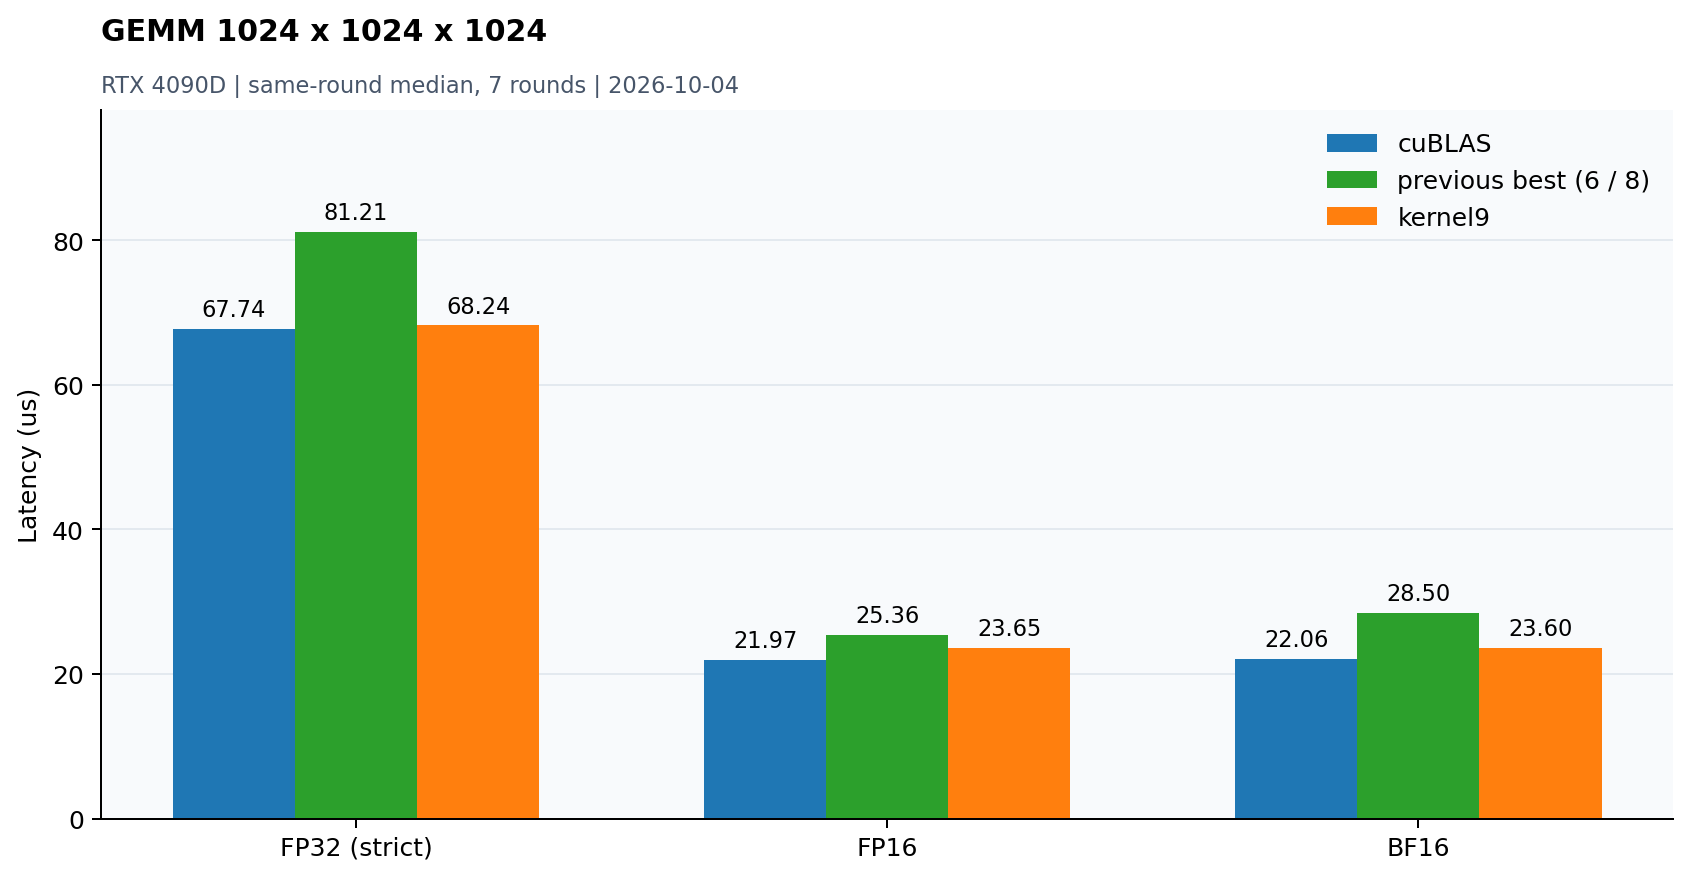
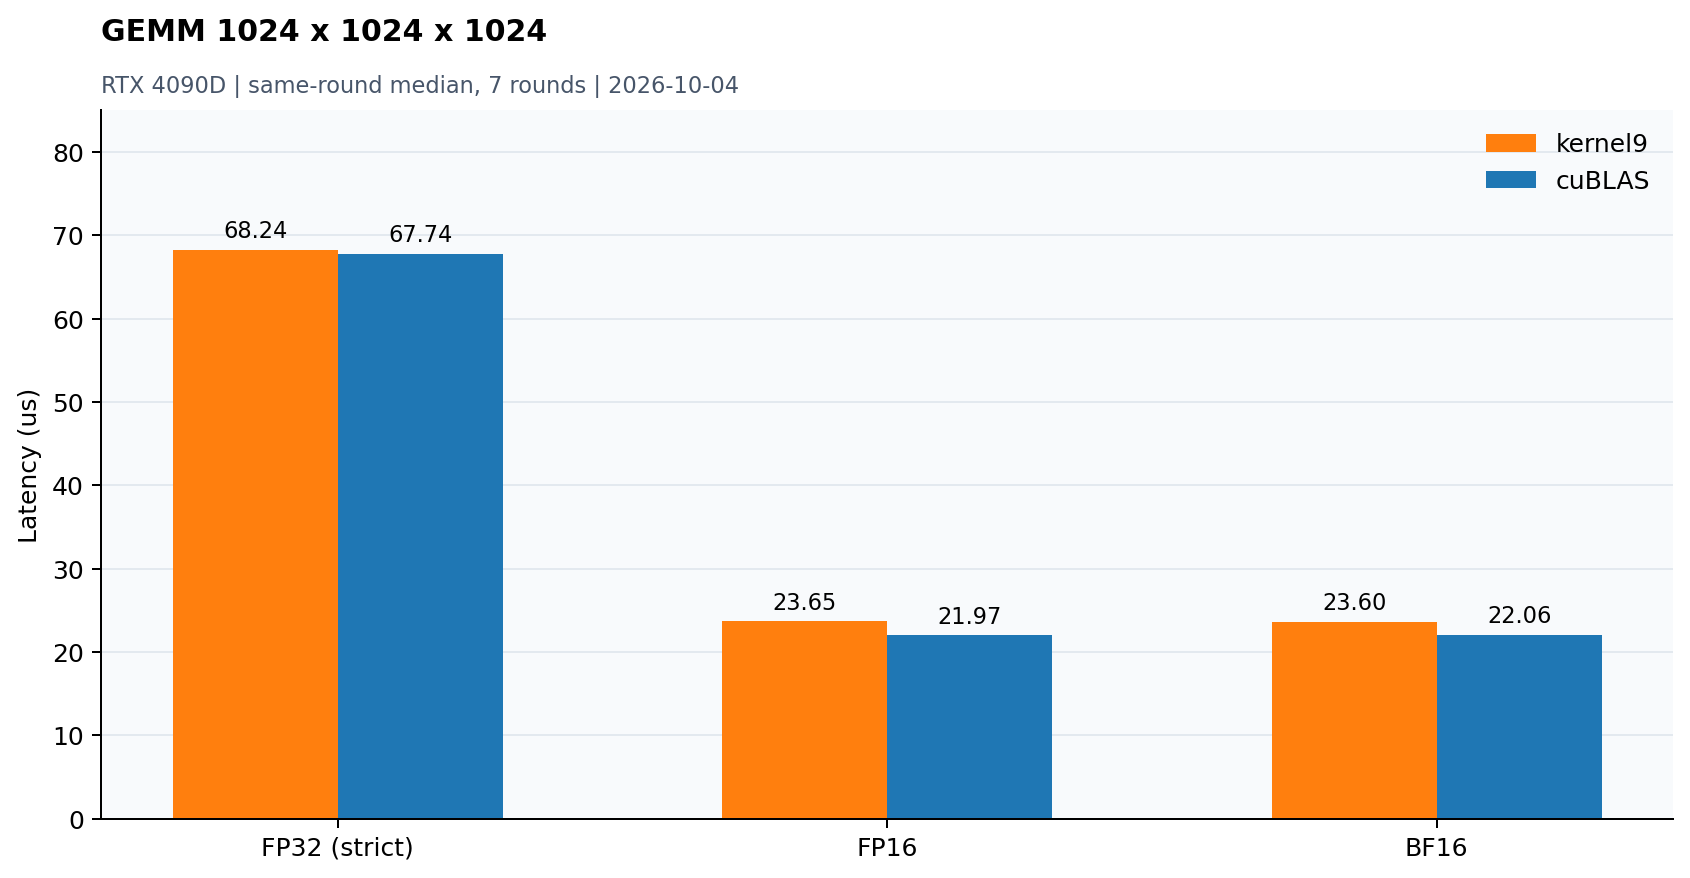
仅展示最终 GEMM 内核与基准的性能对比

diff --git a/analysis/grouped_gemm.md b/analysis/grouped_gemm.md
@@ -4,37 +4,35 @@
 
 ![Grouped GEMM latency](../figures/grouped_gemm.png)
 
-## 实现与调参
+## 最优版kernel7
 
-保留native、逐专家cuBLAS loop、shared/register SIMT、可选CUTLASS和通用kernel6。kernel7精确匹配上述形状与FP16才走固定路径，其他输入明确打印fallback并调用kernel6。
+kernel7精确匹配上述形状与FP16才走固定路径，其他输入明确打印fallback并调用通用实现。
 
-最终CTA32×128×32、warp32×32、128threads、512个有效输出tile；16B向量cp.async、三层shared流水线、紧凑线性地址XOR、B的ldmatrix.x4.trans。停止提交时wait_group0排空，barrier保证其他线程看到已完成拷贝。任务按专家/N tile/M tile排列，以增加B缓存复用机会。寄存器双缓冲在此布局更慢，最终保留单组操作数寄存器。
+CTA32×128×32、warp32×32、128threads、512个有效输出tile；16B向量cp.async、三层shared流水线、紧凑线性地址XOR、B的ldmatrix.x4.trans。停止提交时wait_group0排空，barrier保证其他线程看到已完成拷贝。任务按专家/N tile/M tile排列，以增加B缓存复用机会。操作数使用单组寄存器。
 
-三轮共408个自研扫描项，含跨轮重复；同输入初轮另扫描228个可运行开源候选。CUTLASS DeviceOnly/HostPrecompute均扫描CTA/warp/stages和block数；DeepSpeed/DeepLink扫描原始配置集，选择阶段和JIT排除。不是全局穷举，也没有把未调参的kernel5当作开源最优。
+三轮共408个自研扫描项，含跨轮重复；同输入初轮另扫描228个可运行开源候选。CUTLASS DeviceOnly/HostPrecompute均扫描CTA/warp/stages和block数；DeepSpeed/DeepLink扫描各自配置集。下表展示kernel7与选定的开源配置，调参选择和JIT编译不计时；候选扫描不是全局穷举。
 
-## 最终同轮实测
+## 与开源实现同轮对比
 
-2026-10-05，RTX 4090D物理GPU1、CUDA12.4.99、PyTorch2.9+cu128、Triton3.5。独立stream、128节点CUDA Graph、7轮顺序轮换、每轮10replay，热缓存，未锁时钟；输入、输出、tile metadata和workspace预分配，CPU预计算/上传及框架包装器排除。单位μs。
+2026-10-05，RTX 4090D物理GPU1、CUDA12.4.99、PyTorch2.9+cu128、Triton3.5。独立stream、128节点CUDA Graph、7轮顺序轮换、每轮10replay，热缓存，未锁时钟；输入、输出、tile metadata和workspace预分配，CPU预计算及框架包装器排除。单位μs。
 
 | 实现 | 中位耗时 |
 |---|---:|
-| kernel6 | 46.622 |
-| cutlass_device | 41.404 |
-| cutlass_host | 40.096 |
-| cutlass_extra | 56.278 |
-| deepspeed | 41.945 |
-| deeplink | 57.480 |
 | kernel7 | 41.425 |
+| CUTLASS DeviceOnly | 41.404 |
+| CUTLASS HostPrecompute | 40.096 |
+| DeepSpeed | 41.945 |
+| DeepLink | 57.480 |
 
-kernel7比kernel6耗时减少11.1%，吞吐提高12.5%，约103.68TFLOP/s；相对本次候选集中最快开源CUTLASS HostPrecompute吞吐为96.8%。与DeviceOnly差异不足1%，视为近似持平。图省略较慢的额外CUTLASS大tile列，表保留完整结果。
+kernel7约103.68TFLOP/s；相对本次候选集中最快开源CUTLASS HostPrecompute吞吐为96.8%，计算方式为开源中位耗时/kernel7中位耗时×100%。与DeviceOnly耗时差异不足1%，视为近似持平。
 
 选定CUTLASS为CTA32×128×32、warp16×64×32、3 stages；DeepSpeed为32×128×32、8warps、4stages；DeepLink为128×256×64、GROUP_M10、8warps、3stages。NN布局对照共享同一量化输入，不混入要求B[E,N,K]的NT布局转换结果。源码出处：[CUTLASS](https://github.com/NVIDIA/cutlass)、[DeepSpeed](https://github.com/deepspeedai/DeepSpeed)、[DeepLink](https://github.com/DeepLink-org/Triton_Grouped_GEMM)。
 
 ## 正确性与证据限制
 
-141个自测case：138个通用shape/dtype上的kernel6 fallback，3个固定目标seed0/17及零输入。另对6种随机/结构化输入全输出与cuBLAS比较，每专家257个CPU double抽查；固定目标所有7版对比通过。完整固定目标memcheck/racecheck/synccheck均无错误或hazard。
+141个自测case包含138个通用shape/dtype上的fallback，以及3个固定目标测试（seed0/17及零输入）。固定路径另对6种随机/结构化输入全输出与cuBLAS比较，每专家257个CPU double抽查。完整固定目标memcheck/racecheck/synccheck均无错误或hazard。fallback测试不代表kernel7固定路径支持其他形状或精度。
 
-最终96registers/thread、30720B动态shared、LOCAL/STACK=0。静态地址检查验证双射、16B连续对齐和对应ldmatrix行事务的bank分区；没有NCU counter，不将其写成全kernel实测零bank冲突。HostPrecompute仍约快3.3%，后续应继续验证资源、指令调度与流水线，而不是机械加入更多策略。
+最终96registers/thread、30720B动态shared、LOCAL/STACK=0。静态地址检查验证双射、16B连续对齐和对应ldmatrix行事务的bank分区；没有NCU counter，不将其写成全kernel实测零bank冲突。kernel7比HostPrecompute耗时高约3.3%，后续应继续验证资源、指令调度与流水线的影响。
 
 ```bash
 mkdir -p result/build
